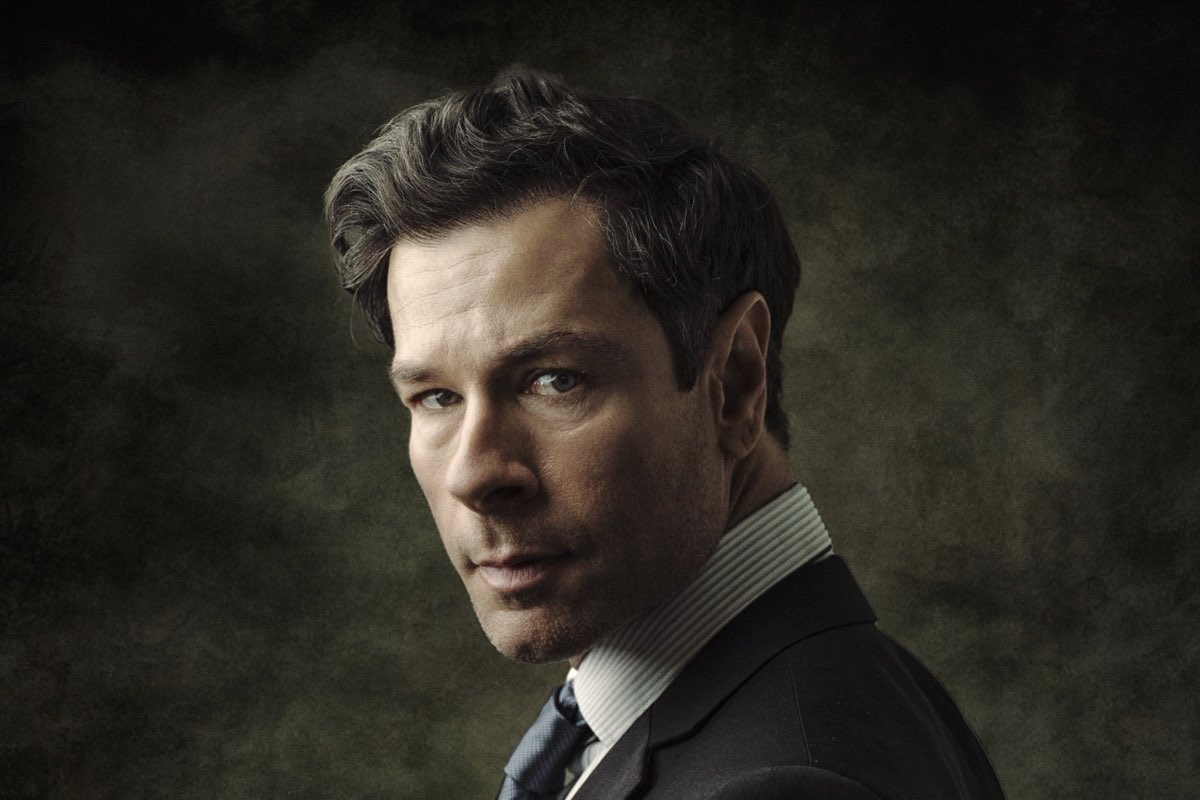
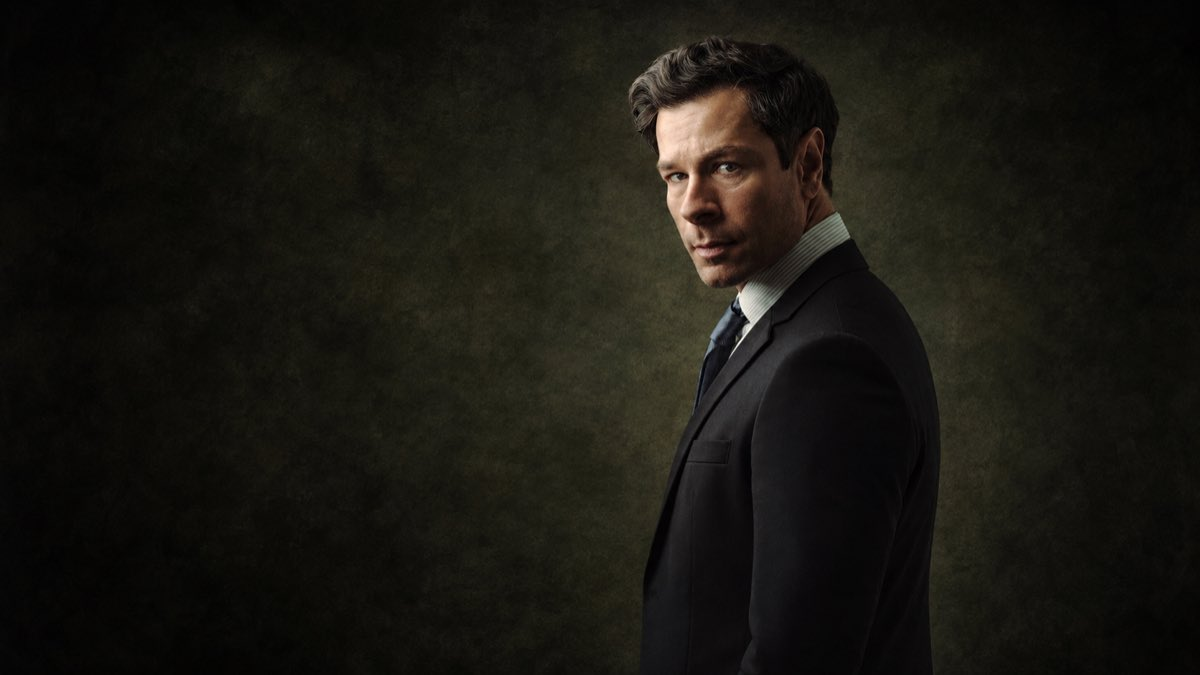
Split the brand hero: desktop editorial-08, mobile stays portrait-19
Desktop now uses a hand-picked 16:9 frame of editorial-08 supplied
directly (screen 1.PNG), resampled into the three -wide widths and
registered in hero-wide.txt. It has generous headroom by design, so it
doesn't crowd the header the way the previous automatic crop of the same
photo did.

Mobile is untouched: hero_portrait still points at portrait-19, so the
phone image is exactly what it was before this change. hero_crops.py is
commented to explain why editorial-08 has no HEROES entry — running it
would silently overwrite this hand-picked crop with its face_y formula.

Checked 1024/1440/1920 desktop and 375 mobile: correct image loads at
each, contrast 15.7-17.9:1 on desktop and 6.47:1 on mobile, no
horizontal scroll.

diff --git a/vancouver-brand-photography-video/index.html b/vancouver-brand-photography-video/index.html
@@ -12,12 +12,12 @@
   <meta property="og:title" content="Brand Photography & Video Vancouver | From $650 | Oscar Leo">
   <meta property="og:description" content="Brand photography and short-form video for Vancouver businesses. Packages from $650. Commercial licence included. Content for web, social and marketing.">
   <meta property="og:url" content="https://oscarleo.photography/vancouver-brand-photography-video/">
-  <meta property="og:image" content="https://oscarleo.photography/assets/img/headshots/vancouver-headshot-portrait-19-1200.jpg?v=c94b516a">
+  <meta property="og:image" content="https://oscarleo.photography/assets/img/headshots/vancouver-headshot-editorial-08-1200.jpg?v=7549b7d8">
   <meta property="og:locale" content="en_CA">
   <meta name="twitter:card" content="summary_large_image">
   <meta name="twitter:title" content="Brand Photography & Video Vancouver | From $650 | Oscar Leo">
   <meta name="twitter:description" content="Brand photography and short-form video for Vancouver businesses. Packages from $650. Commercial licence included. Content for web, social and marketing.">
-  <meta name="twitter:image" content="https://oscarleo.photography/assets/img/headshots/vancouver-headshot-portrait-19-1200.jpg?v=c94b516a">
+  <meta name="twitter:image" content="https://oscarleo.photography/assets/img/headshots/vancouver-headshot-editorial-08-1200.jpg?v=7549b7d8">
 
   <meta name="theme-color" content="#FFFFFF">
 
@@ -27,8 +27,8 @@
   <link rel="preconnect" href="https://fonts.googleapis.com">
   <link rel="preconnect" href="https://fonts.gstatic.com" crossorigin>
   <link rel="preload" as="image" fetchpriority="high"
-        imagesrcset="../assets/img/headshots/vancouver-headshot-portrait-19-400.jpg?v=9d36dc36 400w, ../assets/img/headshots/vancouver-headshot-portrait-19-800.jpg?v=efbe2bc1 800w, ../assets/img/headshots/vancouver-headshot-portrait-19-1200.jpg?v=c94b516a 1200w, ../assets/img/headshots/vancouver-headshot-portrait-19-1800.jpg?v=0b7c11ea 1800w"
-        imagesizes="100vw" href="../assets/img/headshots/vancouver-headshot-portrait-19-1800.jpg?v=0b7c11ea">
+        imagesrcset="../assets/img/headshots/vancouver-headshot-editorial-08-400.jpg?v=4e81afda 400w, ../assets/img/headshots/vancouver-headshot-editorial-08-800.jpg?v=8802f9d5 800w, ../assets/img/headshots/vancouver-headshot-editorial-08-1200.jpg?v=7549b7d8 1200w, ../assets/img/headshots/vancouver-headshot-editorial-08-1800.jpg?v=5e0911e5 1800w"
+        imagesizes="100vw" href="../assets/img/headshots/vancouver-headshot-editorial-08-1800.jpg?v=5e0911e5">
   <link rel="stylesheet"
         href="https://fonts.googleapis.com/css2?family=Playfair+Display:wght@400;500;600&family=Archivo:wght@300;400;500;600&display=swap">
   <link rel="stylesheet" href="../assets/css/site.css?v=367d67e0">
@@ -126,12 +126,12 @@
     <div class="hero__media">
       <picture>
         <source media="(min-aspect-ratio: 18/25)"
-                srcset="../assets/img/headshots/vancouver-headshot-portrait-19-wide-800.jpg?v=2aeea180 800w, ../assets/img/headshots/vancouver-headshot-portrait-19-wide-1200.jpg?v=63d2e967 1200w, ../assets/img/headshots/vancouver-headshot-portrait-19-wide-1800.jpg?v=c0ada036 1800w" sizes="100vw"
-                width="1800" height="1200">
+                srcset="../assets/img/headshots/vancouver-headshot-editorial-08-wide-800.jpg?v=6f0bbb1e 800w, ../assets/img/headshots/vancouver-headshot-editorial-08-wide-1200.jpg?v=a8e02752 1200w, ../assets/img/headshots/vancouver-headshot-editorial-08-wide-1800.jpg?v=e2de7de3 1800w" sizes="100vw"
+                width="1800" height="1013">
         <img src="../assets/img/headshots/vancouver-headshot-portrait-19-1800.jpg?v=0b7c11ea" srcset="../assets/img/headshots/vancouver-headshot-portrait-19-400.jpg?v=9d36dc36 400w, ../assets/img/headshots/vancouver-headshot-portrait-19-800.jpg?v=efbe2bc1 800w, ../assets/img/headshots/vancouver-headshot-portrait-19-1200.jpg?v=c94b516a 1200w, ../assets/img/headshots/vancouver-headshot-portrait-19-1800.jpg?v=0b7c11ea 1800w" sizes="100vw"
              width="400" height="600"
              fetchpriority="high" decoding="async"
-             alt="Editorial-style business portrait against a warm, muted backdrop, photographed in Vancouver.">
+             alt="Business portrait with even lighting and a clean background, photographed in Vancouver.">
       </picture>
     </div>
     <div class="hero__inner">

diff --git a/_build/generate.py b/_build/generate.py
@@ -1152,7 +1152,11 @@ def build_brand():
     # STAND-IN IMAGERY: no dedicated brand/commercial shoot was supplied.
     # Portrait frames stand in — personal branding portraits are genuinely part
     # of this service, but product, workspace and team frames are missing.
-    hero_img = next(i for i in HEADSHOTS if i["slug"] == "vancouver-headshot-portrait-19")
+    # Desktop hero: editorial-08 (its own hand-picked 16:9 crop, see
+    # _build/hero_crops.py). Mobile hero: portrait-19, via hero_portrait below
+    # -- editorial-08's source has too little headroom above the head to sit
+    # under a portrait window without crowding it.
+    hero_img = next(i for i in HEADSHOTS if i["slug"] == "vancouver-headshot-editorial-08")
     picks = [HEADSHOTS[i] for i in (3, 9, 13, 18, 6, 20)]
     page = dict(
         url="/vancouver-brand-photography-video/",
@@ -1163,7 +1167,10 @@ def build_brand():
         hero_sub="Photography and vertical video built for websites, social media and marketing.",
         hero_actions=[("#packages", "See packages"), ("/contact/", "Start a project")],
         schema=["faq-brand-content.json"],
-        **hero_fields(hero_img, "Editorial-style business portrait against a warm, muted backdrop, photographed in Vancouver.")
+        hero_portrait=(lambda im: {"src": f"/assets/img/{im['folder']}/{im['slug']}-1800.jpg",
+                                   "srcset": srcset(im), "w": im["w"], "h": im["h"]})(
+            next(i for i in HEADSHOTS if i["slug"] == "vancouver-headshot-portrait-19")),
+        **hero_fields(hero_img, "Business portrait with even lighting and a clean background, photographed in Vancouver.")
     )
 
     cards = "\n".join([

diff --git a/_build/hero_crops.py b/_build/hero_crops.py
@@ -44,7 +44,14 @@ QUALITY = {800: 68, 1200: 58, 1800: 54}
 # folder, slug, face centre as a fraction of the full image height
 HEROES = [
     ("headshots", "vancouver-headshot-office-18", 0.22),         # headshots page
-    ("headshots", "vancouver-headshot-portrait-19", 0.22),      # brand page
+    ("headshots", "vancouver-headshot-portrait-19", 0.22),      # brand page (mobile)
+    # editorial-08's desktop crop is NOT generated by this script. It is a
+    # hand-picked 16:9 frame the client supplied directly (site/../PHOTO/
+    # screen/screen 1.PNG), resampled straight into the three -wide-*.jpg
+    # widths and registered in hero-wide.txt by hand. Do not add an entry
+    # here for it — running this script would overwrite that crop with the
+    # face_y formula above, which has no matching column for a hand-picked
+    # frame.
     ("headshots", "vancouver-headshot-professional-06", 0.16),  # about page
     ("concerts", "vancouver-concert-backstage-14", 0.45),       # concerts page
     ("concerts", "vancouver-concert-backstage-41", 0.27),       # BTS page
